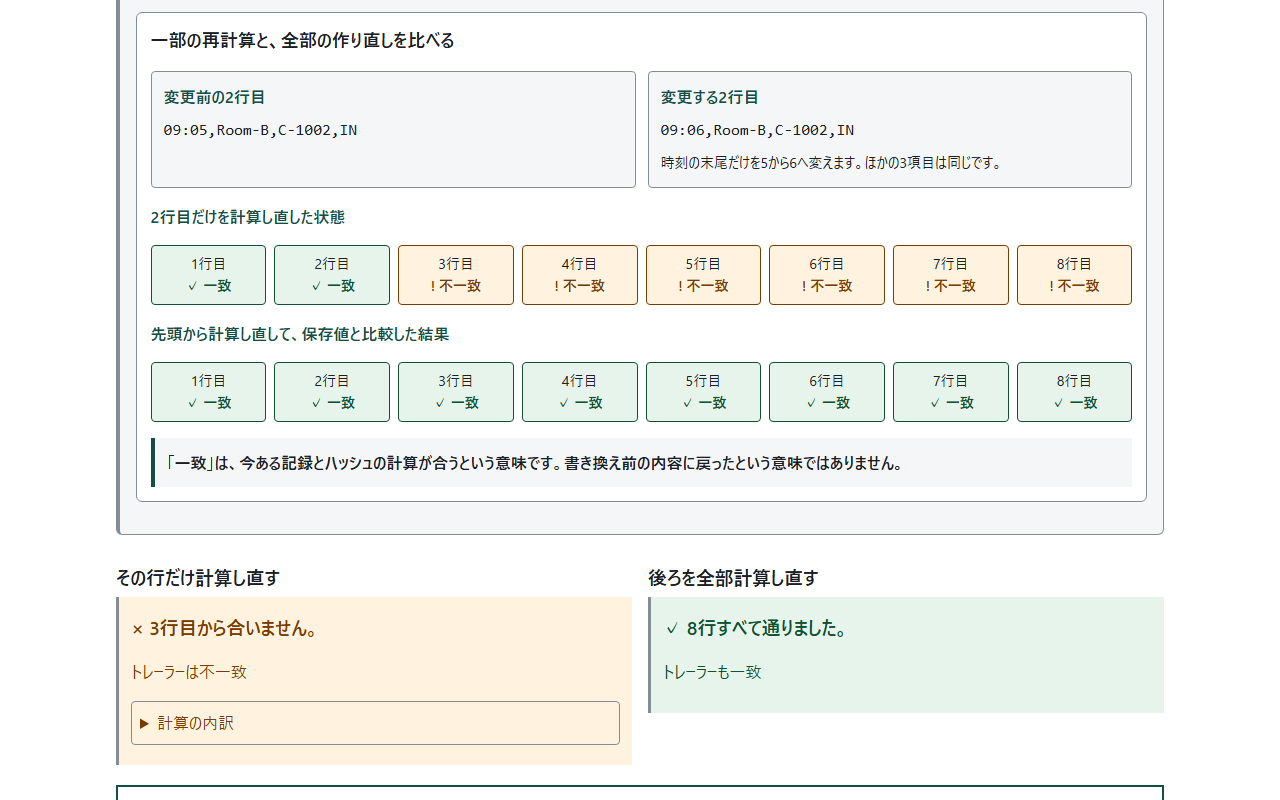
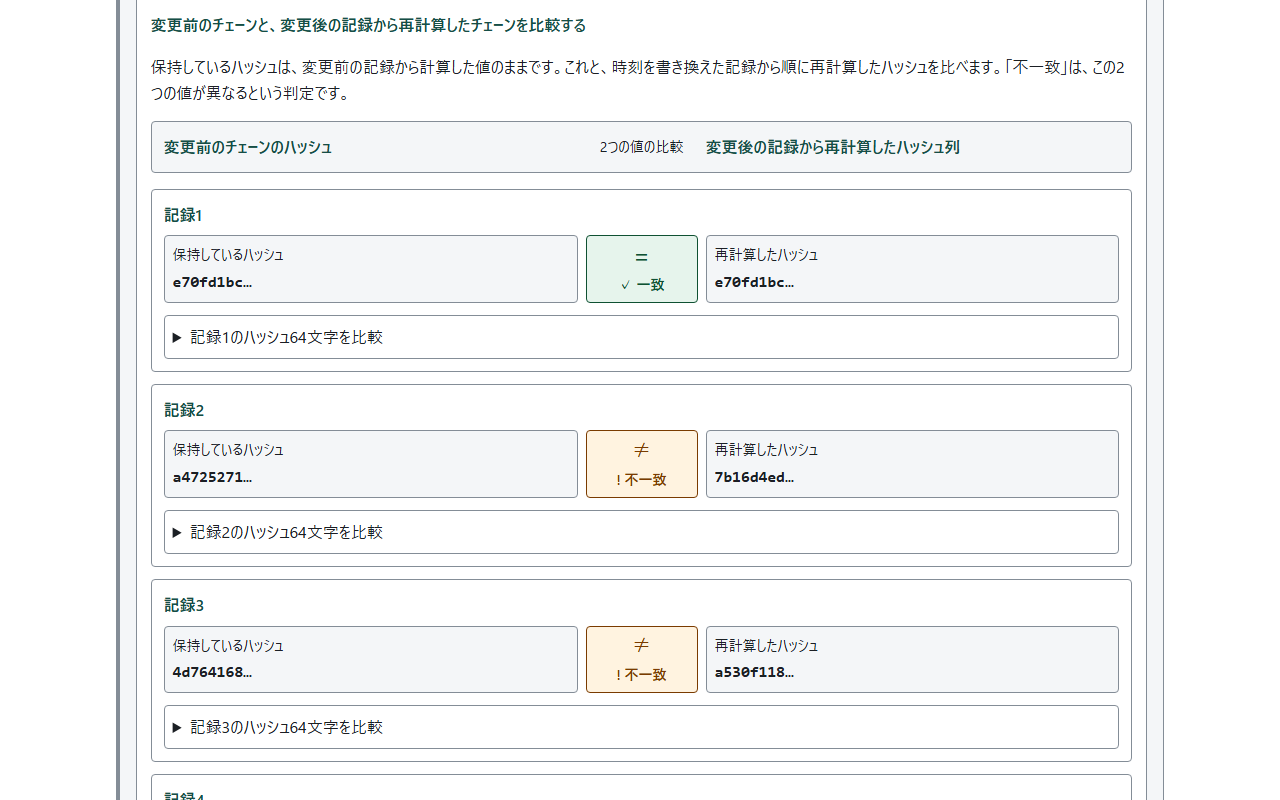
変更前と再計算後のハッシュを記録ごとに並べて比較

diff --git a/messages.js b/messages.js
@@ -517,6 +517,21 @@
     "guide.sampleFigure.meaning.3": "部屋の外から中へ入室",
     "guide.sampleFigure.record": "この4項目が「記録1」です。カンマでつないで表示しています。",
     "guide.sampleFigure.direction": "INは入室、OUTは退室です。この例はINなので、部屋へ入る場面を表します。",
+    "compare.title.2": "変更前のチェーンと、変更後の記録から再計算したチェーンを比較する",
+    "compare.title.3": "記録2のハッシュだけ更新した後の比較",
+    "compare.title.4": "すべてのハッシュを更新した後の比較",
+    "compare.note.2": "保持しているハッシュは、変更前の記録から計算した値のままです。これと、時刻を書き換えた記録から順に再計算したハッシュを比べます。「不一致」は、この2つの値が異なるという判定です。",
+    "compare.note.3": "保持しているハッシュのうち、記録2に対応する値だけを更新しています。記録2の比較は一致しますが、記録3以降は変更前の値のままなので、再計算した値と一致しません。",
+    "compare.note.4": "保持しているハッシュをすべて再計算した値に更新したため、各記録の比較が一致します。変更前のチェーンに戻ったという意味ではありません。",
+    "compare.left.2": "変更前のチェーンのハッシュ",
+    "compare.left.3": "記録2の値だけ更新したハッシュ列",
+    "compare.left.4": "すべて更新したハッシュ列",
+    "compare.right": "変更後の記録から再計算したハッシュ列",
+    "compare.judge": "2つの値の比較",
+    "compare.stored": "保持しているハッシュ",
+    "compare.recalculated": "再計算したハッシュ",
+    "compare.full": "記録{n}のハッシュ64文字を比較",
+    "compare.display": "一覧は先頭8文字と「…」で表示します。一致・不一致は64文字すべてを比較した結果です。各記録を開くと、両方の全文を読めます。",
     "visual.display.title": "省略した表示と、計算に使う全文を見比べる",
     "visual.display.short": "画面で見せる先頭8文字",
     "visual.display.full": "計算に使う64文字すべて",
@@ -1149,6 +1164,21 @@
     "guide.sampleFigure.meaning.3": "Entering the room from outside",
     "guide.sampleFigure.record": "Join the four fields with commas to make this record.",
     "guide.sampleFigure.direction": "IN means entry; OUT means exit. This example uses IN, so the illustration shows someone entering the room.",
+    "compare.title.2": "Compare the original chain with the chain recalculated from the changed records",
+    "compare.title.3": "Comparison after updating only the hash for record 2",
+    "compare.title.4": "Comparison after updating every stored hash",
+    "compare.note.2": "The stored hashes still have their original values. Compare them with the hashes recalculated in order from the records with the changed time. Mismatch means these two values differ.",
+    "compare.note.3": "Only the stored hash for record 2 has been replaced. Its comparison passes. The stored hashes for records 3 onward still have their original values, so they differ from the recalculated hashes.",
+    "compare.note.4": "Every stored hash has been replaced with its recalculated value, so each comparison passes. This does not mean the original chain has been restored.",
+    "compare.left.2": "Hashes from the original chain",
+    "compare.left.3": "Stored hashes with only record 2 updated",
+    "compare.left.4": "Stored hashes after updating all of them",
+    "compare.right": "Hashes recalculated from the changed records",
+    "compare.judge": "Compare the two values",
+    "compare.stored": "Stored hash",
+    "compare.recalculated": "Recalculated hash",
+    "compare.full": "Compare all 64 hash characters for record {n}",
+    "compare.display": "The overview shows the first eight characters and an ellipsis. Match or mismatch is based on all 64 characters. Expand a record to read both complete hashes.",
     "visual.display.title": "Compare the short display with the full value used in calculations",
     "visual.display.short": "First 8 characters shown on screen",
     "visual.display.full": "All 64 characters used in calculations",

diff --git a/app.js b/app.js
@@ -882,6 +882,44 @@
     return block;
   }
 
+  function visualChainComparison(result, stage) {
+    const block = node('div', undefined, 'visual-row-group chain-comparison');
+    block.dataset.stage = String(stage);
+    block.append(node('strong', t('compare.title.' + stage), 'visual-label'),
+      node('p', t('compare.note.' + stage)));
+    const headings = node('div', undefined, 'comparison-headings');
+    headings.append(node('strong', t('compare.left.' + stage)),
+      node('span', t('compare.judge')), node('strong', t('compare.right')));
+    const list = node('ol', undefined, 'visual-rows comparison-rows');
+    for (const row of result.rows) {
+      const li = node('li', undefined, 'comparison-row');
+      li.dataset.row = String(row.number);
+      li.dataset.status = row.valid ? 'pass' : 'fail';
+      li.append(node('strong', t('visual.row', {n:row.number}), 'comparison-record'));
+      const stored = node('div', undefined, 'comparison-cell comparison-stored');
+      const recalculated = node('div', undefined, 'comparison-cell comparison-recalculated');
+      for (const [cell, label, hash] of [[stored, 'compare.stored', row.actual], [recalculated, 'compare.recalculated', row.expected]]) {
+        const value = node('code', shortHash(hash), 'comparison-hash');
+        value.title = hash;
+        cell.append(node('span', t(label), 'comparison-cell-label'), value);
+      }
+      const status = node('div', undefined, 'comparison-status');
+      const symbol = node('span', row.valid ? '=' : '≠', 'comparison-symbol');
+      symbol.setAttribute('aria-hidden', 'true');
+      status.append(symbol, node('strong', t('visual.status.' + (row.valid ? 'pass' : 'fail'))));
+      const full = node('details', undefined, 'comparison-full');
+      full.append(node('summary', t('compare.full', {n:row.number})));
+      const pair = node('div', undefined, 'visual-grid');
+      pair.append(visualCard(t('compare.stored'), visualHash(row.actual)),
+        visualCard(t('compare.recalculated'), visualHash(row.expected)));
+      full.append(pair);
+      li.append(stored, status, recalculated, full);
+      list.append(li);
+    }
+    block.append(headings, list, node('p', t('compare.display'), 'muted'));
+    return block;
+  }
+
   function utf8InputExample(input, isRow) {
     const bytes = new TextEncoder().encode(input);
     const values = Array.from(bytes, byte => byte.toString(16).padStart(2, '0'));
@@ -952,8 +990,8 @@
         figure.append(node('p', t('visual.plan.' + step), 'visual-conclusion'));
         return figure;
       }
-      if (step === 4) figure.append(visualRows(guide.results[3], t('visual.beforeRebuild')));
-      figure.append(visualRows(result, t('visual.actualResults')));
+      if (step === 4) figure.append(visualChainComparison(guide.results[3], 3));
+      figure.append(visualChainComparison(result, step));
       if (step < 4) {
         const mismatch = result.rows[result.firstMismatch - 1];
         const hashes = node('div', undefined, 'visual-grid');

diff --git a/style.css b/style.css
@@ -458,3 +458,26 @@ progress { flex: 1; min-width: 0; height: 0.75rem; accent-color: var(--accent); 
 .byte-character { color: var(--accent); font-weight: 700; text-decoration: underline; text-underline-offset: 3px; }
 .byte-separator { color: var(--warn-fg); background: var(--warn-bg); outline: 1px solid var(--warn-fg); font-weight: 700; }
 .visual-byte-note { font-weight: 600; }
+
+/* Each verdict sits between the stored and recalculated hash for one record. */
+.comparison-headings { display: grid; gap: 0.5rem; padding: 0.75rem; background: var(--surface); border: 1px solid var(--border); border-radius: 4px; }
+.comparison-headings > span { font-size: 0.875rem; }
+.visual-rows.comparison-rows { grid-template-columns: minmax(0, 1fr); gap: 0.75rem; }
+.comparison-row { min-width: 0; display: grid; gap: 0.5rem; padding: 0.75rem; border: 1px solid var(--border); border-radius: 4px; background: var(--bg); }
+.comparison-record, .comparison-full { grid-column: 1 / -1; }
+.comparison-cell { min-width: 0; padding: 0.5rem; border: 1px solid var(--border); border-radius: 4px; background: var(--surface); }
+.comparison-cell-label { display: block; font-size: 0.875rem; }
+.comparison-hash { display: block; font-size: 1rem; font-weight: 700; margin-block-start: 0.2rem; }
+.comparison-status { display: flex; gap: 0.5rem; justify-content: center; align-items: center; padding: 0.35rem; border: 1px solid; border-radius: 4px; }
+.comparison-symbol { font-size: 1.5rem; line-height: 1; }
+.comparison-status strong { font-size: 0.875rem; color: inherit; }
+.comparison-row[data-status="pass"] .comparison-status { color: var(--ok-fg); background: var(--ok-bg); }
+.comparison-row[data-status="fail"] .comparison-status { color: var(--warn-fg); background: var(--warn-bg); }
+.comparison-full { margin-block: 0.25rem 0; }
+.comparison-full .visual-grid { padding: 0.5rem; }
+@media (min-width: 700px) {
+  .comparison-headings, .comparison-row { grid-template-columns: minmax(0, 1fr) 7rem minmax(0, 1fr); }
+  .comparison-headings { align-items: center; }
+  .comparison-headings > span { text-align: center; }
+  .comparison-status { flex-direction: column; }
+}

diff --git a/README.en.md b/README.en.md
@@ -54,7 +54,7 @@ Step 1 starts its prerequisites with the card-access illustration and a data ove
 The Learning path opens first. Read the aim and prerequisites, then use the main button. What just happened includes calculated hashes and verification results. Read How it works and What you learned below for the reasons. Prerequisites are open from the start and include links to related tools.
 
 1. Build a chain: calculate the hash for each of records 1–8. Inspect the stored pairs in the overview and distinguish the input string, UTF-8 bytes and output in the calculation diagram. Finish with the trailer and an example of the tip to keep as a checkpoint. Restart from record 1 at any time.
-2. Change one character: change the time in record 2 from 09:05 to 09:06 and verify while retaining the stored hashes. The first mismatch is the hash comparison for record 2.
+2. Change one character: change the time in record 2 from 09:05 to 09:06 and verify while retaining the stored hashes. Compare the original chain’s hashes with hashes recalculated from the changed records, record by record. Expand any record to compare all 64 characters.
 3. Update only the hash for the changed record: calculate from the input containing the changed record 2 and replace its stored hash. The first mismatch moves to record 3.
 4. Rebuild all later hashes: replace all hashes and the trailer. See verification pass with the changed records, alongside the failing step-3 result.
 5. Cut off the tail: remove original records 7 and 8. The six remaining hashes match, but comparison with the original trailer fails.

diff --git a/CLAUDE.md b/CLAUDE.md
@@ -79,3 +79,5 @@ DOMは`createElement`と`textContent`で組み立てます。CSPは`connect-src 
 ステップ1の入力文字列を開くと、直下にTextEncoderで変換した全バイトを16進数2桁ずつ表示します。起点と全8行に対応し、バイト数・先頭2文字・縦棒・LFの対応を説明します。表示は実際の入力から生成し、暗号計算と固定期待値は変更しません。
 
 Step1の前提知識は入室イラストとデータの全体図から始めます。全体図はヘッダー・8件の記録と対応するハッシュ・トレーラー、受け取る検証者、Step6で独立して保管する控えの例を示します。ハッシュとトレーラーはguide.partialの計算結果から表示し、未計算の値を先に埋めません。控えはStep6の構成例であり、Step1で外部へ送信・保存したとは表現しません。完成後のボタンで全体図へ移動し、再計算・言語切替・理解チェックと独立させます。
+
+Step2〜4の判定図は、各記録について保持しているハッシュと再計算したハッシュを対にし、その間に一致・不一致を示します。単独の記録に不一致の印だけを付けません。値はverifyのactual/expected、判定はvalidから取ります。Step2の保存側は変更前、Step3は記録2の値だけ更新、Step4は全更新と見出しで区別します。各記録の全文比較を開けるようにし、短縮表示で判定したとは説明しません。
